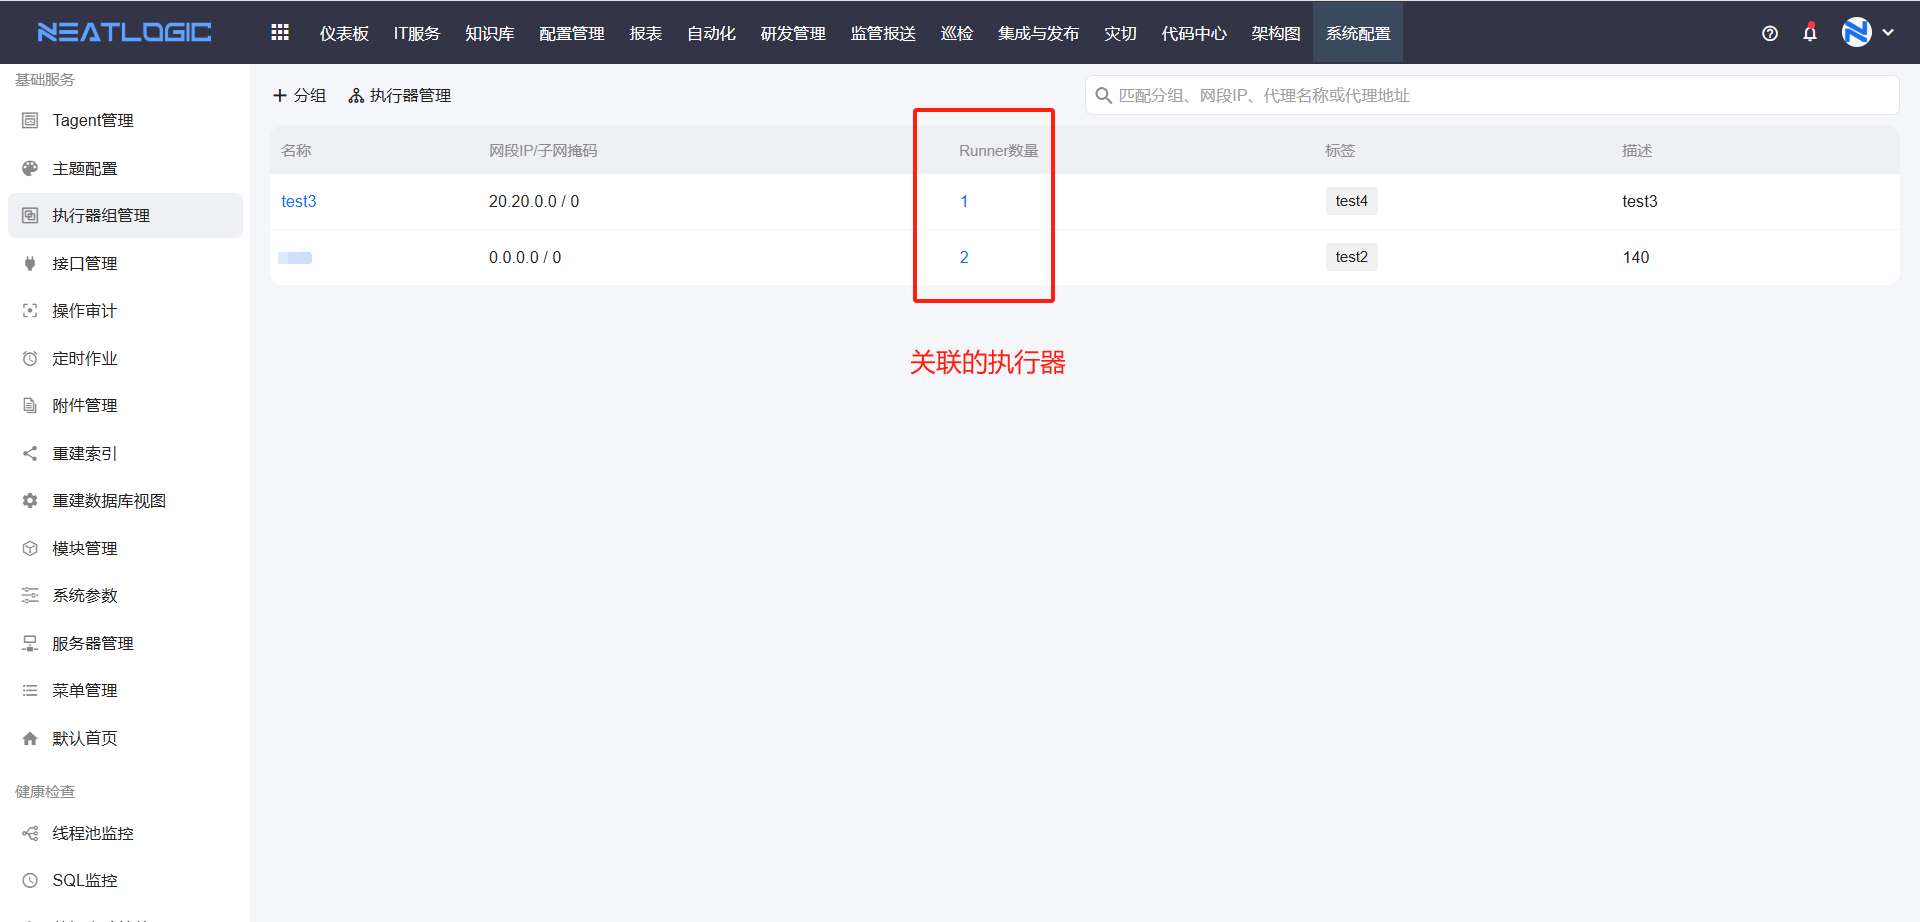
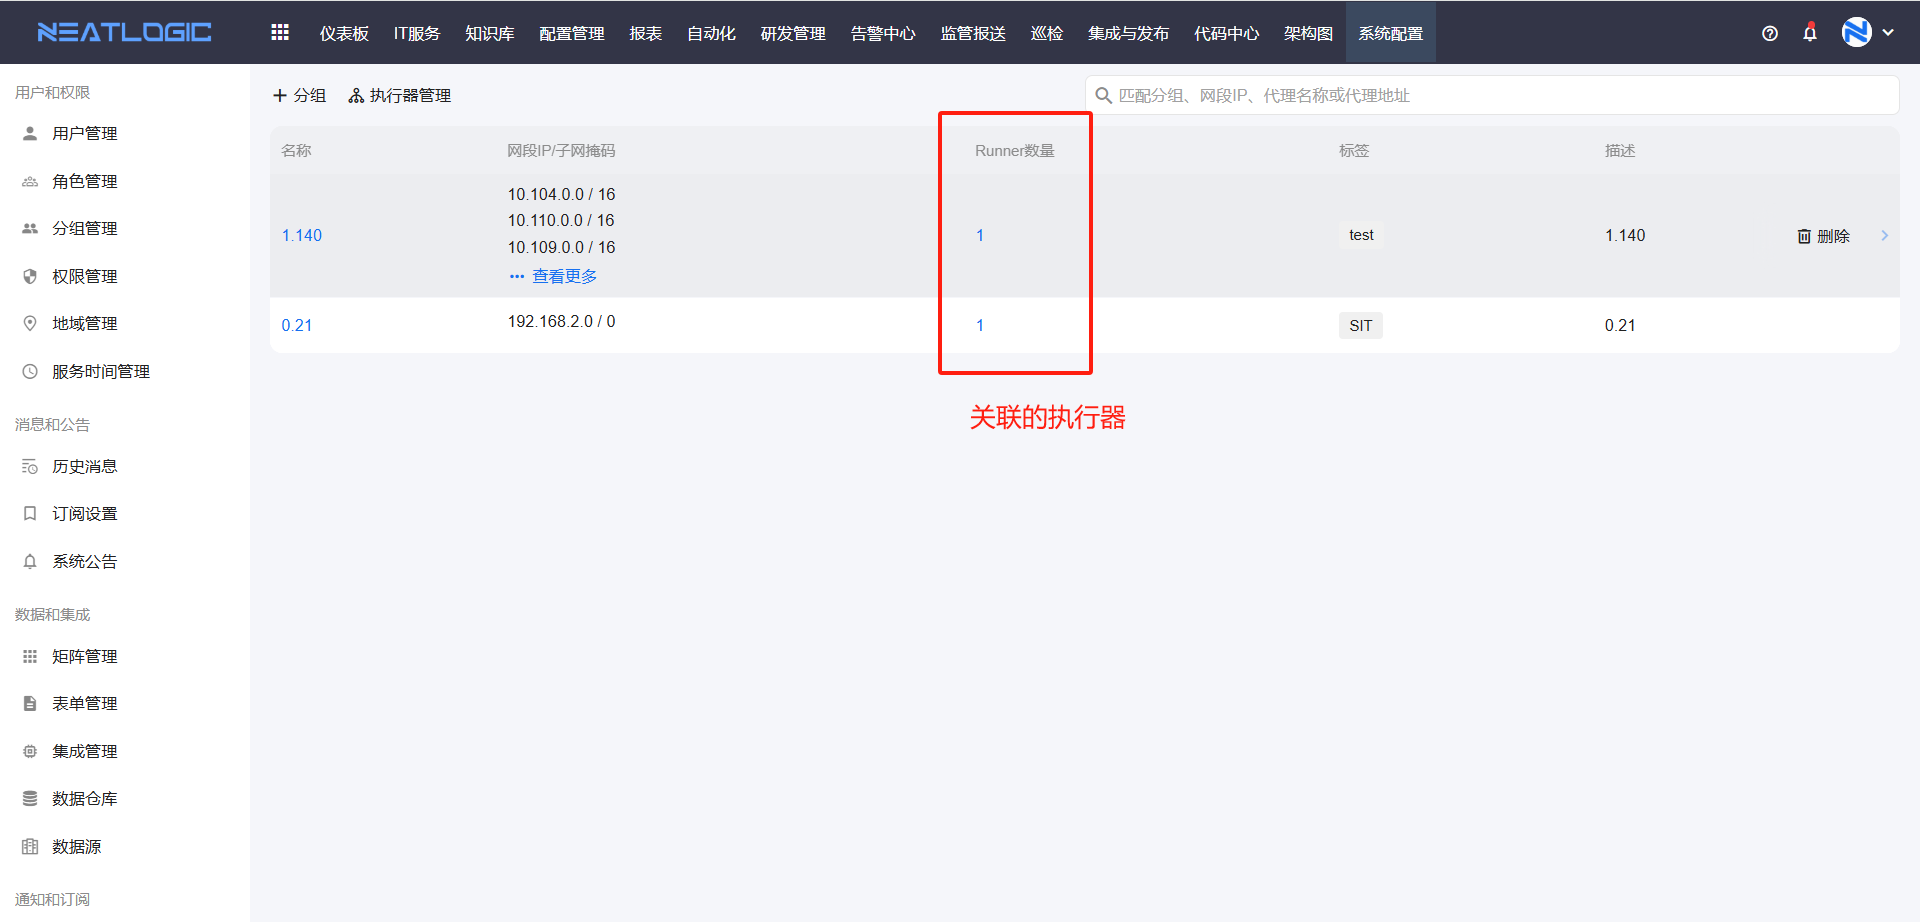
更新执行器组规则功能描述

diff --git a/src/main/resources/neatlogic/resources/documentonline/zh/100.系统配置/5.基础服务/执行器组管理.md b/src/main/resources/neatlogic/resources/documentonline/zh/100.系统配置/5.基础服务/执行器组管理.md
@@ -1,6 +1,12 @@
 # 执行器组管理
-执行器组是由一个或多个执行器组成，执行器组主要是控制其包含的执行器可用网段范围。执行器组的配置有名称、描述、网段和关联执行器。
+执行器组是由一个或多个执行器组成，执行器组主要是控制其包含的执行器可用网段范围。执行器组的配置有名称、描述、规则、网段和关联执行器。
 ![](images/执行器组管理.png)
+规则：登录认证的请求需要携带Header，在规则中定义表达式，用户登陆时header参数值满足表达式，则该执行器生效，否则不生效。
+
+应用场景：<br>
+多个环境的应用共用同一个数据库时，控制在不同环境发起作业的可用执行器组范围。<br>
+例如：当前环境是SIT，配置了执行器组“1.140”，定义规则${neatlogic-rule-test1}=='b'，用户登录SIT环境时，满足表达式规则，执行器组“1.140”可使用。若用户登录其他环境，则不满足表达式，执行器组“1.140”不可用。
+![](images/执行器组管理_规则.png)
 
 ## 添加执行器组
 添加执行器组时，有两个步骤，填写基本信息和关联runner（执行器），网段设置是限制当前执行器组能够应用的网段范围，在标签组件输入标签文案并回车即可添加标签。
